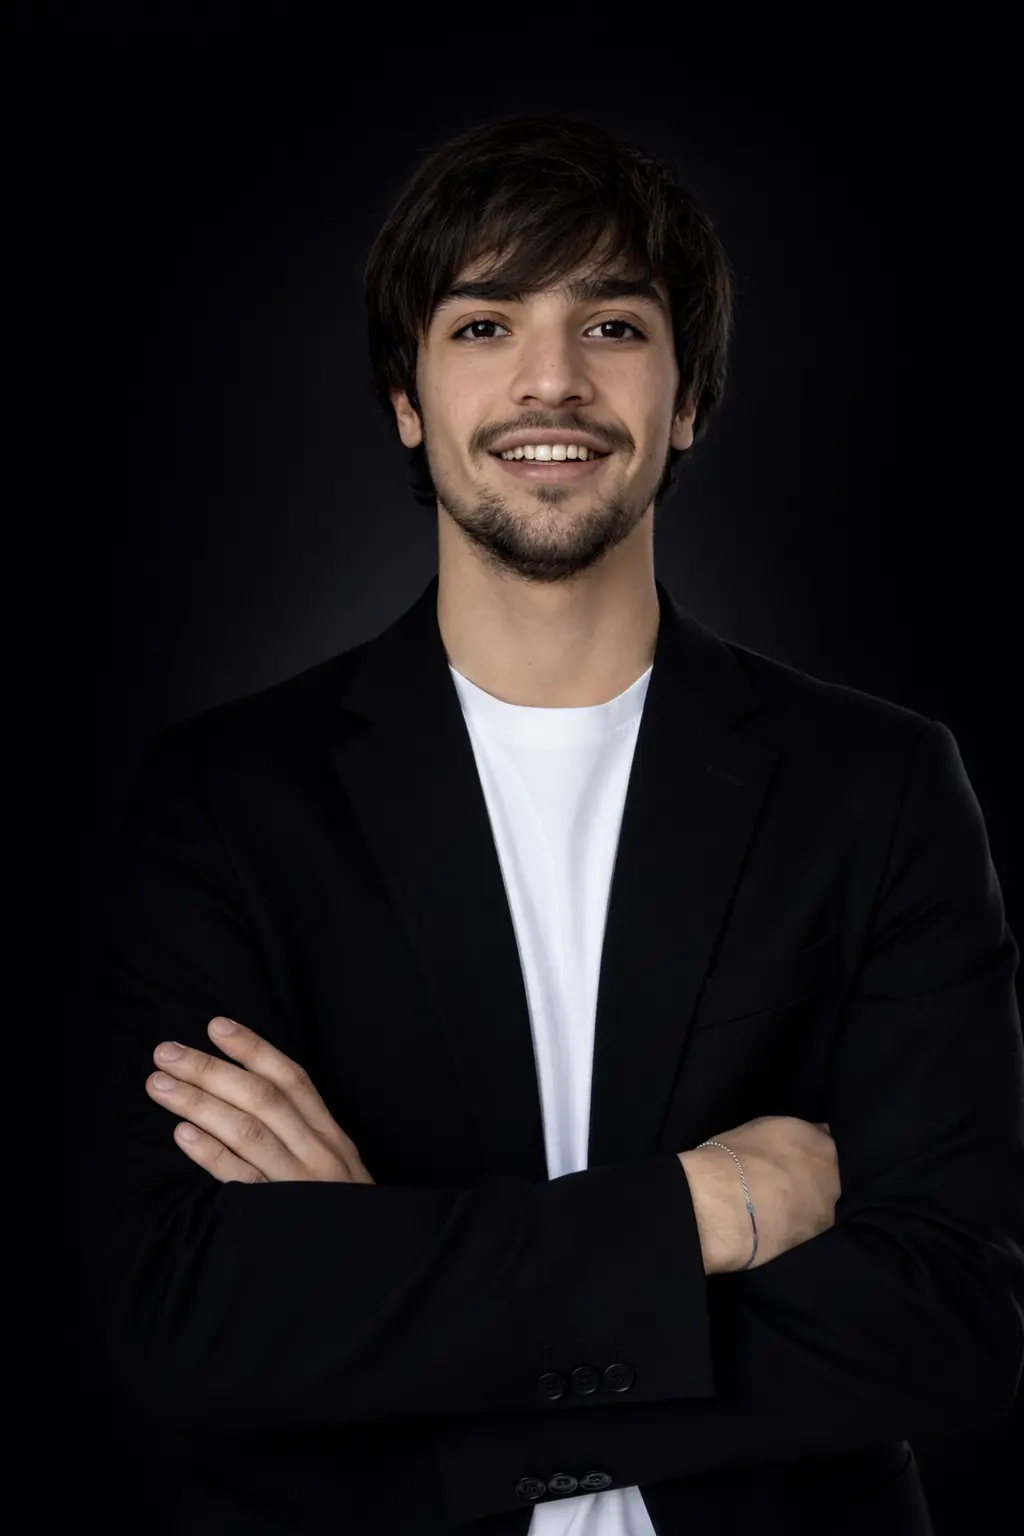
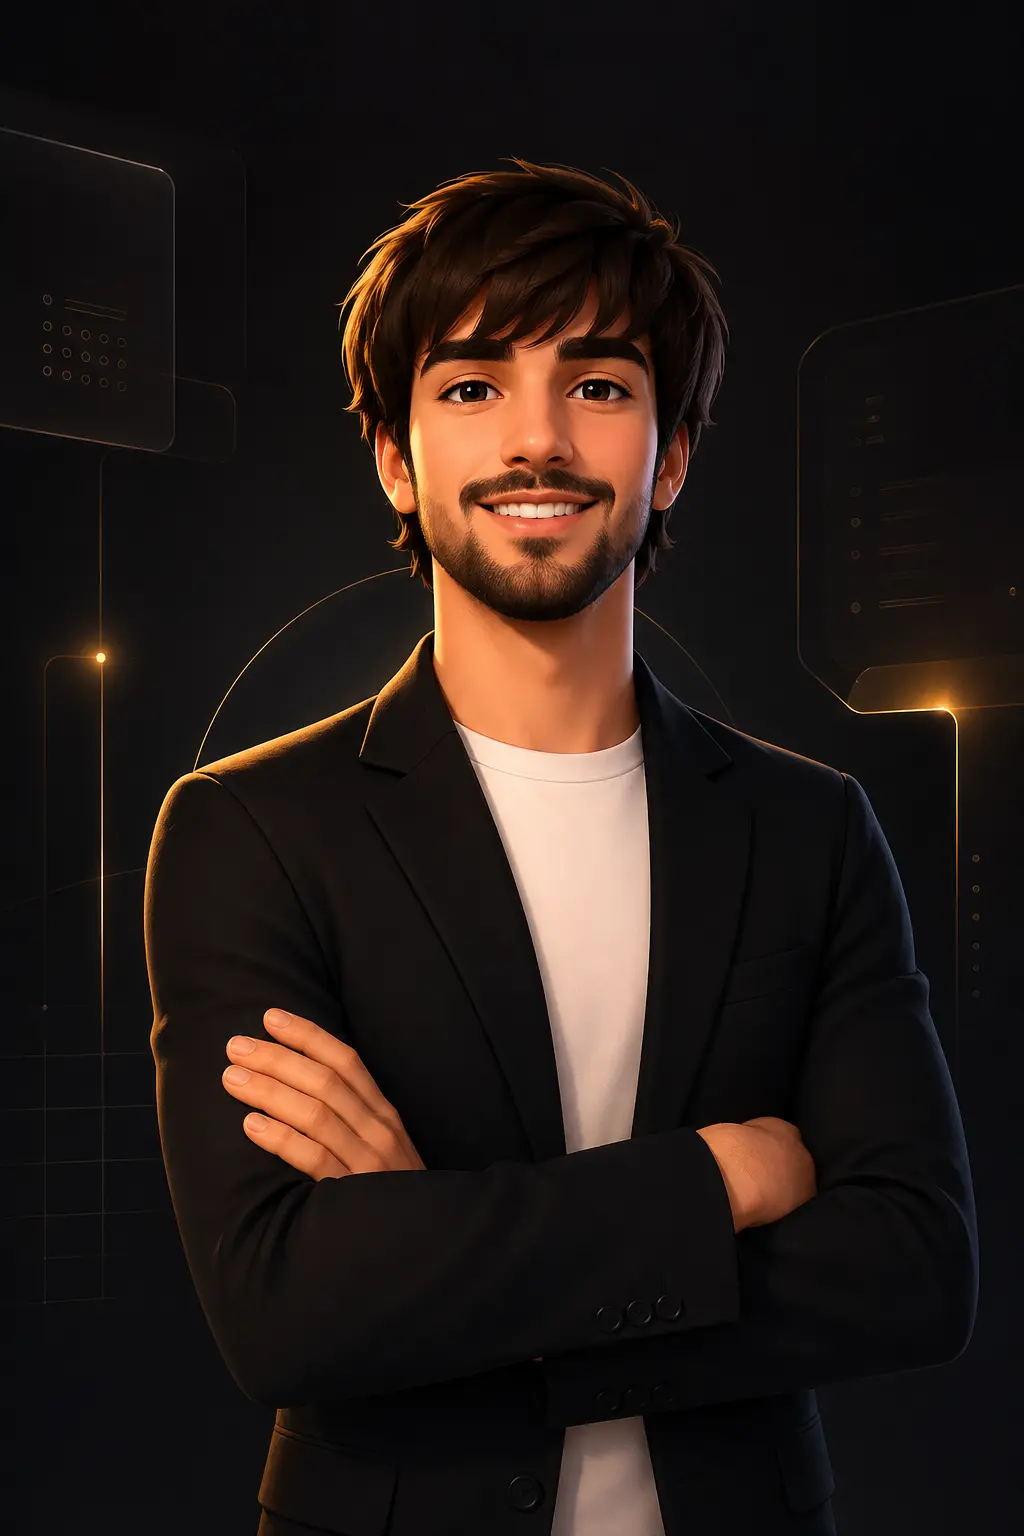
img

diff --git a/src/components/home/HeroPortrait.tsx b/src/components/home/HeroPortrait.tsx
@@ -1,6 +1,8 @@
 import Image from "next/image";
 
-const PORTRAIT_SRC = "/images/portrait.webp";
+/** Incrementa quando sostituisci `public/images/portrait.webp` (cache CDN/browser). */
+const PORTRAIT_CACHE_KEY = "20260425";
+const PORTRAIT_SRC = `/images/portrait.webp?v=${PORTRAIT_CACHE_KEY}`;
 
 /** Avatar circolare: hero mobile, sotto eyebrow (non in fondo alla colonna). */
 export function HeroPortraitMobile() {